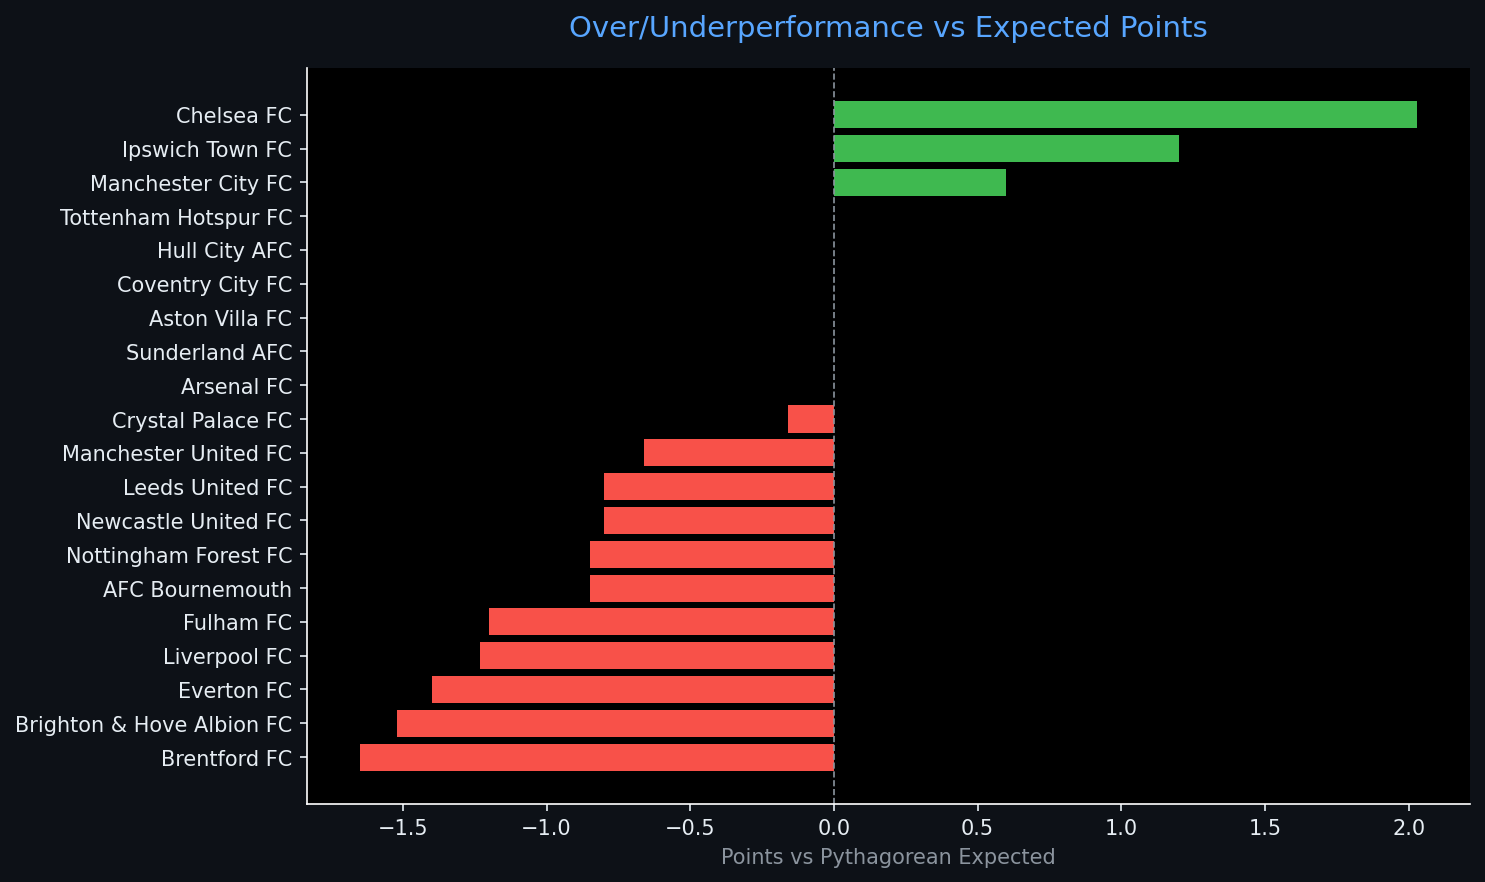
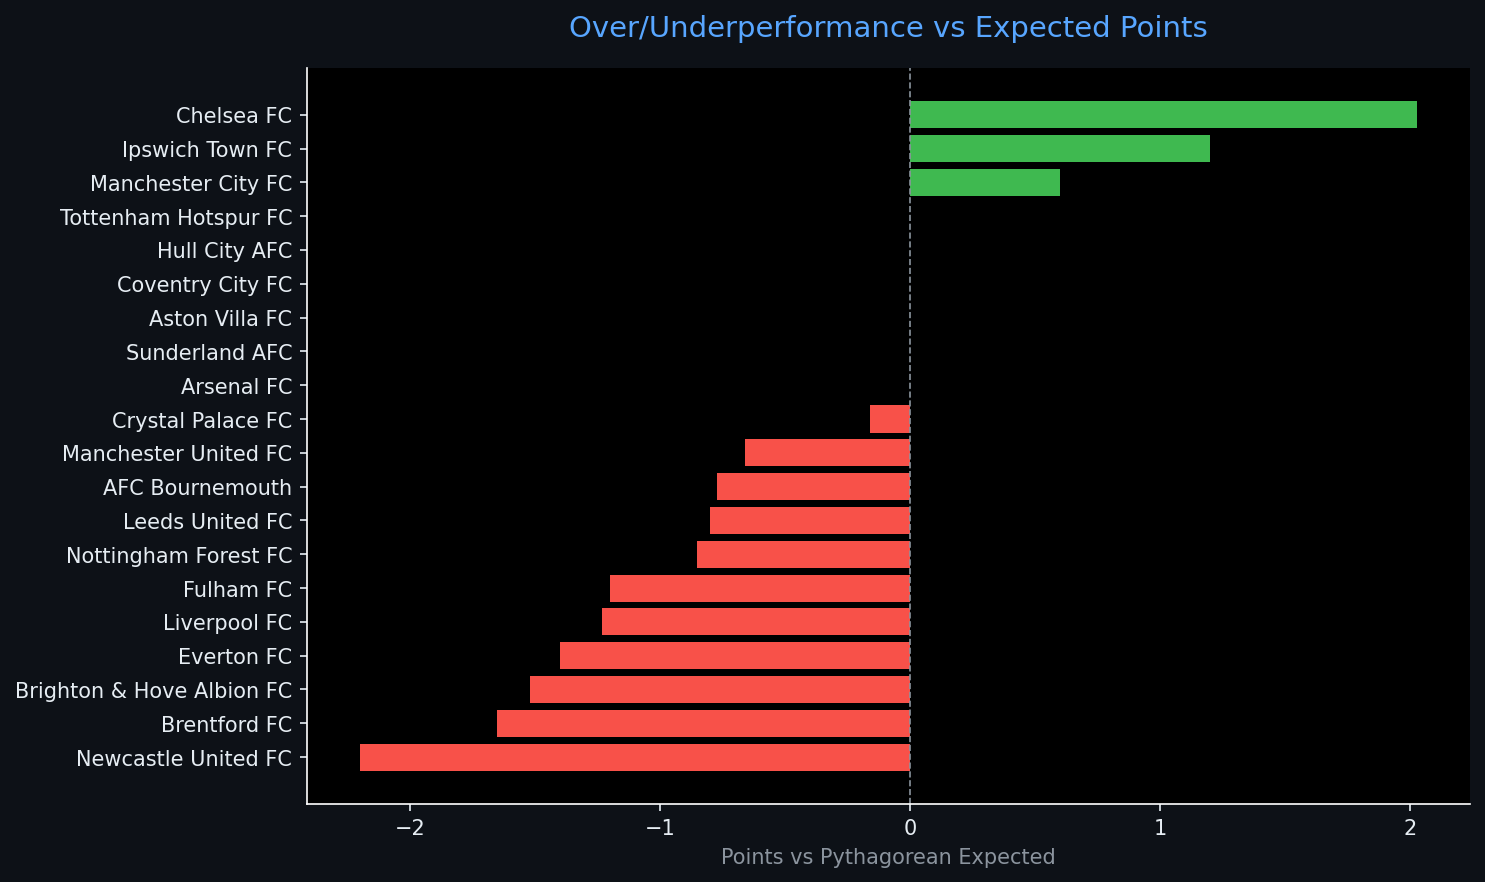
Automated ETL data update: 2026-09-05 11:41

diff --git a/reports/pipeline_report.html b/reports/pipeline_report.html
@@ -4,7 +4,7 @@
 <head>
     <meta charset="UTF-8">
     <meta name="viewport" content="width=device-width, initial-scale=1.0">
-    <title>Sports Data Pipeline Report — 2026-09-05 07:58</title>
+    <title>Sports Data Pipeline Report — 2026-09-05 11:41</title>
     <style>
         body { font-family: 'Segoe UI', sans-serif; background: #0d1117; color: #e6edf3; margin: 0; padding: 2rem; }
         h1   { color: #58a6ff; border-bottom: 1px solid #30363d; padding-bottom: 0.5rem; }
@@ -20,7 +20,7 @@
 </head>
 <body>
     <h1>⚽ Sports Data Pipeline — Automated Report</h1>
-    <p class="meta">Generated: 2026-09-05 07:58 UTC &nbsp;|&nbsp; Sport: <strong>football</strong> &nbsp;|&nbsp; Rows: <strong>20</strong></p>
+    <p class="meta">Generated: 2026-09-05 11:41 UTC &nbsp;|&nbsp; Sport: <strong>football</strong> &nbsp;|&nbsp; Rows: <strong>20</strong></p>
     <span class="badge">Pipeline v1.0.0</span>
     <h2>📊 Data Table</h2>
     <table class="dataframe data-table">
@@ -119,6 +119,21 @@
     </tr>
     <tr>
       <td>6</td>
+      <td>Newcastle United FC</td>
+      <td>3</td>
+      <td>5</td>
+      <td>1</td>
+      <td>2</td>
+      <td>0</td>
+      <td>4</td>
+      <td>2</td>
+      <td>0.333</td>
+      <td>1.667</td>
+      <td>0.800</td>
+      <td>NaN</td>
+    </tr>
+    <tr>
+      <td>7</td>
       <td>Brentford FC</td>
       <td>2</td>
       <td>4</td>
@@ -130,21 +145,6 @@
       <td>0.500</td>
       <td>2.000</td>
       <td>0.941</td>
-      <td>NaN</td>
-    </tr>
-    <tr>
-      <td>7</td>
-      <td>Newcastle United FC</td>
-      <td>2</td>
-      <td>4</td>
-      <td>1</td>
-      <td>1</td>
-      <td>0</td>
-      <td>4</td>
-      <td>2</td>
-      <td>0.500</td>
-      <td>2.000</td>
-      <td>0.800</td>
       <td>NaN</td>
     </tr>
     <tr>
@@ -240,20 +240,20 @@
     <tr>
       <td>14</td>
       <td>AFC Bournemouth</td>
+      <td>3</td>
       <td>2</td>
-      <td>1</td>
       <td>0</td>
-      <td>1</td>
+      <td>2</td>
       <td>1</td>
       <td>2</td>
       <td>3</td>
       <td>0.000</td>
-      <td>0.500</td>
+      <td>0.667</td>
       <td>0.308</td>
       <td>NaN</td>
     </tr>
     <tr>
-      <td>14</td>
+      <td>15</td>
       <td>Nottingham Forest FC</td>
       <td>2</td>
       <td>1</td>
@@ -360,9 +360,9 @@
         
         <tr><td>Total Columns</td><td>29</td></tr>
         
-        <tr><td>Null Values</td><td>90</td></tr>
+        <tr><td>Null Values</td><td>91</td></tr>
         
-        <tr><td>Run Timestamp (UTC)</td><td>2026-09-05T07:58:15.821382</td></tr>
+        <tr><td>Run Timestamp (UTC)</td><td>2026-09-05T11:41:16.140147</td></tr>
         
         <tr><td>ML Features Ready</td><td>False</td></tr>
         
